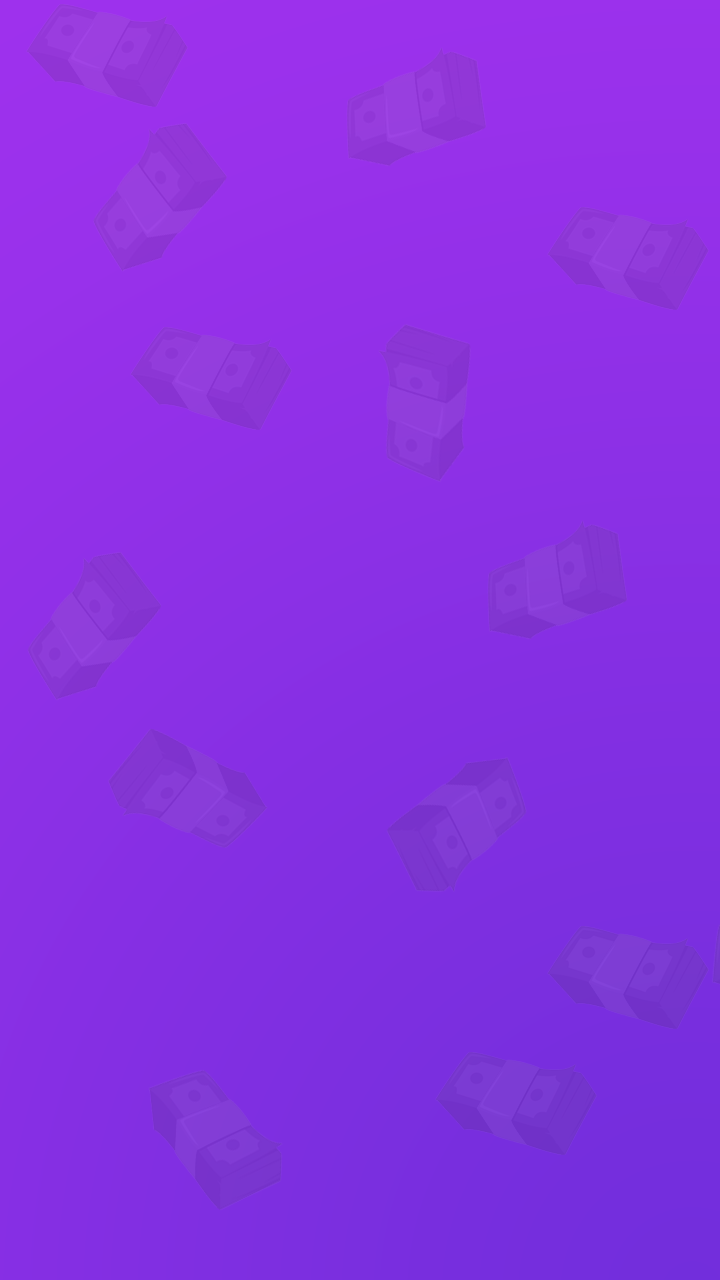
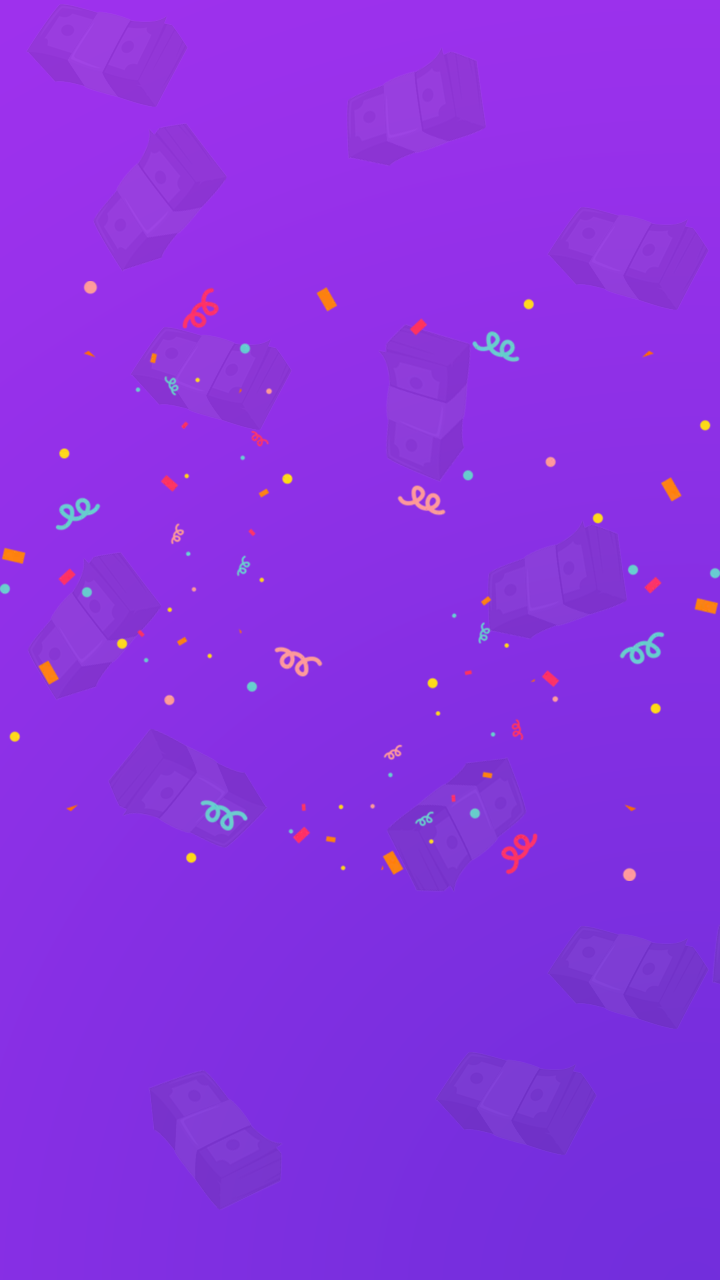
落地页模拟奖励列表

diff --git a/public/share.html b/public/share.html
@@ -1,11 +1,3 @@
-<!--
- * @Description: 
- * @version: 
- * @Author: lizejun
- * @Date: 2020-12-01 13:36:12
- * @LastEditors: lizejun
- * @LastEditTime: 2020-12-17 13:15:46
--->
 <!DOCTYPE html>
 <html lang="en">
   <head>
@@ -20,10 +12,10 @@
         padding: 0;
         margin: 0;
         background-image: url("https://marketing.gamemasterf9.com/static/images/bg.png");
-        background-size: cover;
+        background-size: stretch;
       }
       img {
-        width: 95%;
+        width: 100vw;
       }
       a {
         text-decoration: none;
@@ -45,18 +37,111 @@
         align-items: center;
         flex-direction: column;
       }
+
+      .award_list {
+        margin-top: 1rem;
+        border-radius: 0.5rem;
+        background-color: #ffffff6e;
+        color: #fff;
+        height: 30vh;
+        overflow: hidden;
+      }
+      .award_list img {
+        width: 2rem;
+        height: 2rem;
+        border-radius: 1rem;
+      }
+      ul {
+        list-style: none;
+        width: 65vw;
+        padding: 0 1rem;
+        font-size: 12px;
+        animation: move 10s linear 1s infinite;
+        transform: translateY(100%);
+      }
+      .title {
+        width: 60vw;
+        position: absolute;
+        left: 0;
+        right: 0;
+        margin: auto;
+        bottom: 26%;
+        color: #833800;
+      }
+      .title p {
+        text-align: center;
+        margin: 0;
+        padding: 0;
+        font-size: 1rem;
+      }
+      .title p:nth-child(2) {
+        font-size: 1.5rem;
+        font-weight: bolder;
+      }
+
+      @keyframes move {
+        from {
+          transform: translateY(0);
+        }
+        to {
+          transform: translateY(-40%);
+        }
+      }
+      li {
+        margin-bottom: 5px;
+        display: flex;
+        align-items: center;
+      }
+      .award_user {
+        flex-grow: 3;
+        margin-left: 5px;
+      }
+      .award_value {
+        flex-grow: 1;
+      }
     </style>
+    <script src="https://www.gstatic.com/firebasejs/8.1.1/firebase-app.js"></script>
+    <script src="https://www.gstatic.com/firebasejs/8.1.1/firebase-analytics.js"></script>
+    <script>
+      var firebaseConfig = {
+        apiKey: "AIzaSyDrA683VyXyQO8AqHGdrFJOoMmx1be9svA",
+        authDomain: "plinkomaster-1ad16.firebaseapp.com",
+        databaseURL: "https://plinkomaster-1ad16.firebaseio.com",
+        projectId: "plinkomaster-1ad16",
+        storageBucket: "plinkomaster-1ad16.appspot.com",
+        messagingSenderId: "350096893615",
+        appId: "1:350096893615:web:d39adff52031940717165a",
+        measurementId: "G-WZJDL399QB",
+      };
+      firebase.initializeApp(firebaseConfig);
+      window.analytics = firebase.analytics();
+      window.analytics.logEvent("enter_invite_download");
+
+      function download() {
+        window.analytics.logEvent("click_invite_download");
+      }
+    </script>
     <title>Didabu</title>
   </head>
   <body>
-    <noscript>You need to enable JavaScript to run this app.</noscript>
     <div class="container">
-      <img src="https://marketing.gamemasterf9.com/static/images/top.png" />
-      <a href="">Download</a>
-      <div class="container" style="padding: 0 1rem">
-        <img
-          src="https://marketing.gamemasterf9.com/static/images/bottom.png"
-        />
+      <div style="position: relative">
+        <img src="./static/images/top.png" />
+        <div class="title">
+          <p>Play free game</p>
+          <p>MAKE MONEY</p>
+        </div>
+      </div>
+      <a onclick="download()" href="">Download</a>
+      <div class="container award_list">
+        <ul>
+          <!-- 用户奖励数据 -->
+          <li>
+            <img src="./static/images/bg.png" />
+            <span class="award_user">name1</span>
+            <span class="award_value">Receive $1</span>
+          </li>
+        </ul>
       </div>
     </div>
   </body>
